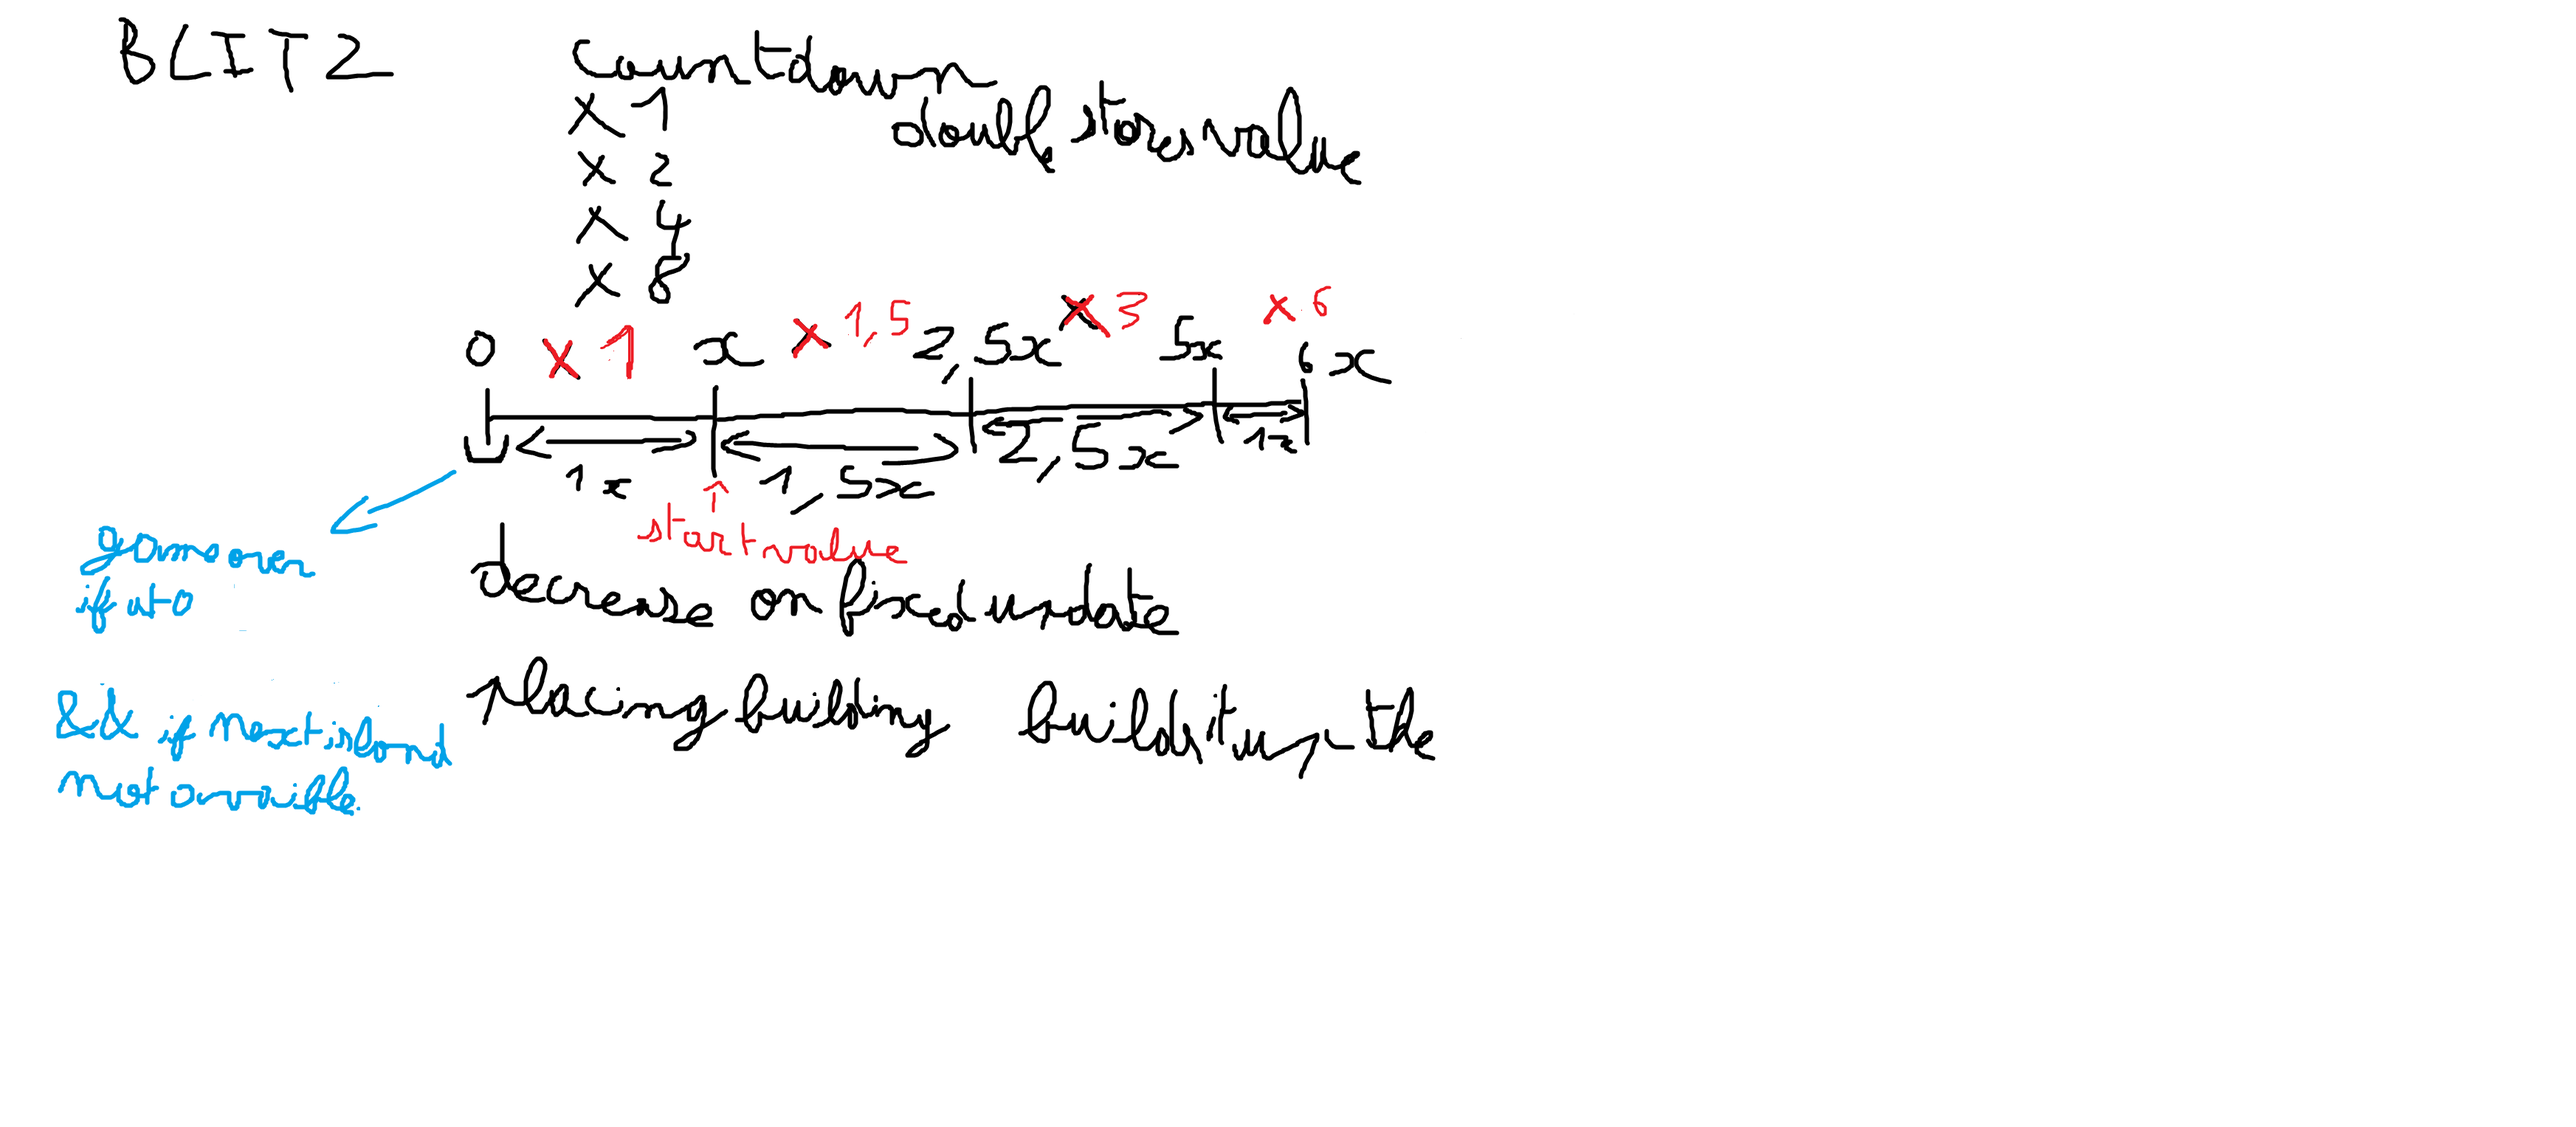
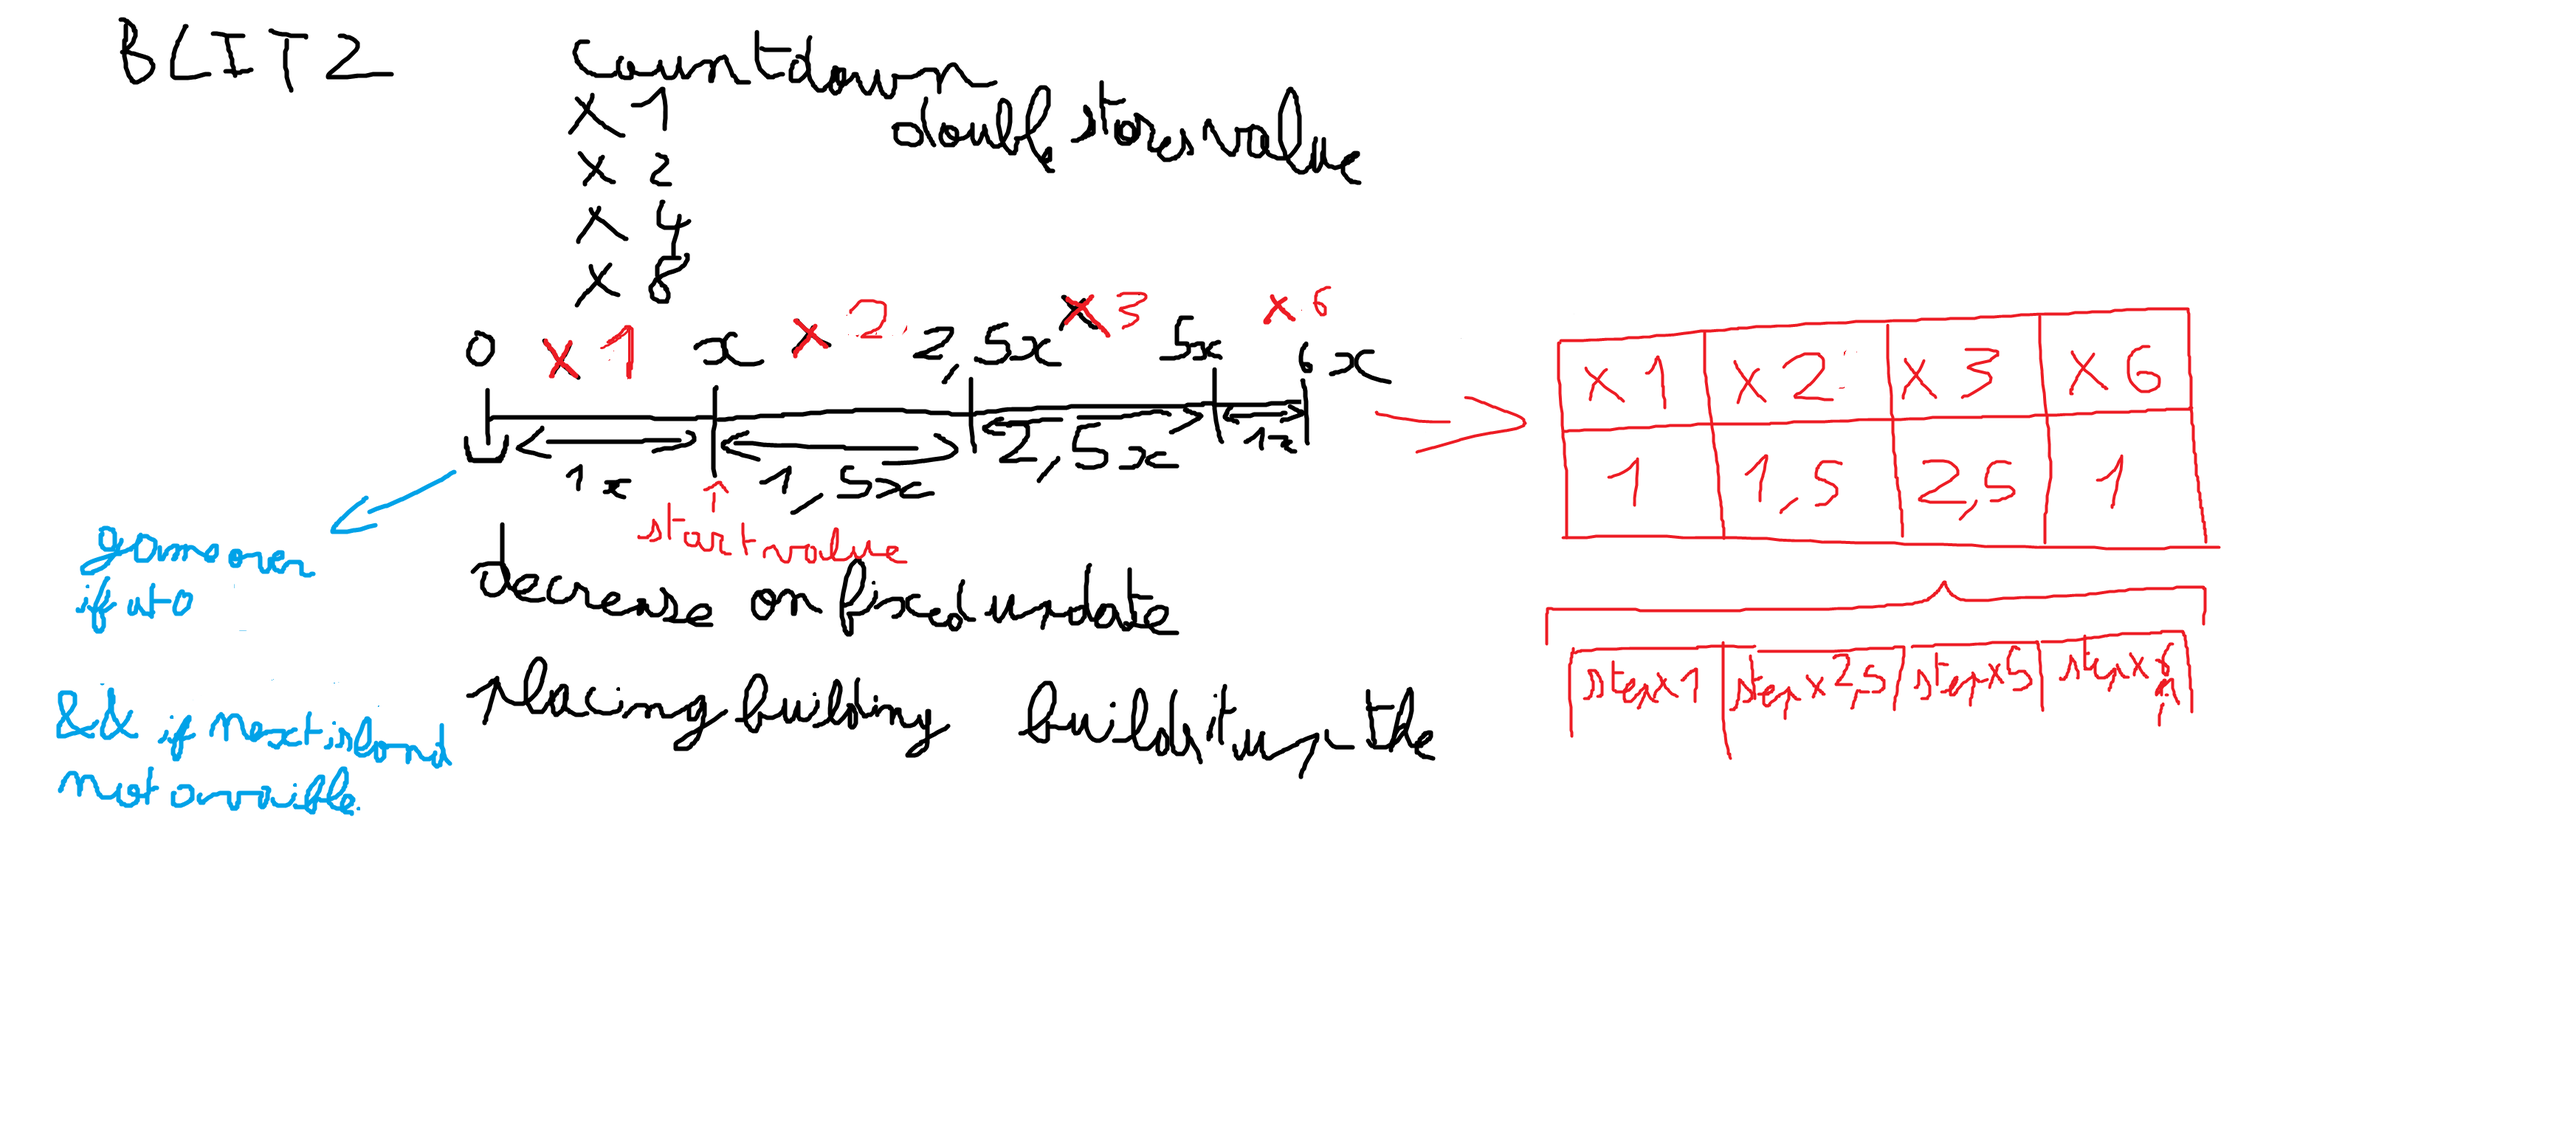
created a tuple to store multiplicator and the upper limit of it, and began the construction of a countdown decorator that would add the multiplicator recon

diff --git a/BlitzModISLANDERS/BlitzModIslanders/CDAndRules.cs b/BlitzModISLANDERS/BlitzModIslanders/CDAndRules.cs
@@ -1,0 +1,27 @@
+using System;
+using System.Collections.Generic;
+using System.Text;
+
+namespace BlitzModIslanders
+{
+    public class CDAndRules
+    {
+        private GameCountDown _cd;
+        private TupleFloatInt[] _tupleFloatInts;
+        private double[] _scoreLimits;
+
+        public CDAndRules ( TupleFloatInt[] tupleFloatInts, double val, double dec, double inc, double min, double step)
+        {
+            this._tupleFloatInts = tupleFloatInts;
+            double tempMax = 0;
+            this._scoreLimits = new double[this._tupleFloatInts.Length];
+            for (int i = 0; i < this._tupleFloatInts.Length; i++)
+            {
+                tempMax += this._tupleFloatInts[i].getFloatVal();
+                this._scoreLimits[i] = step * tempMax;
+            }
+
+            this._cd = new GameCountDown(val,dec,inc,min,step,tempMax);
+        }
+    }
+}

diff --git a/BlitzModISLANDERS/BlitzModIslanders/TupleFloatInt.cs b/BlitzModISLANDERS/BlitzModIslanders/TupleFloatInt.cs
@@ -1,0 +1,35 @@
+using System;
+using System.Collections.Generic;
+using System.Text;
+
+namespace BlitzModIslanders
+{
+    public class TupleFloatInt
+    {
+        private int _value;
+        private float _floatValue;
+        public TupleFloatInt(int value, float floatValue)
+        {
+            _value = Math.Abs(value);
+            _floatValue = Math.Abs(floatValue);
+        }
+
+        //getters
+        public int getIntVal() {  return _value; }
+        public float getFloatVal() { return _floatValue;}
+
+        //setters
+        public void setIntVal(int value) {
+            if (value < 0)
+            {
+                _value = value;
+            }
+        }
+        public void setFloatVal(float value) {
+            if (value > 0)
+            {
+                _floatValue = value;
+            }
+        }
+    }
+}

diff --git a/BlitzModISLANDERS/BlitzModIslanders/GameCountDown.cs b/BlitzModISLANDERS/BlitzModIslanders/GameCountDown.cs
@@ -14,7 +14,7 @@ namespace BlitzModIslanders
         public GameCountDown() { }
 
         // the cd's max val is relative to other variables so it's set at the start
-        public GameCountDown(double val, double dec, double inc, double min, double step)
+        public GameCountDown(double val, double dec, double inc, double min, double step, double toMax)
         {
 
             this.value = val; // base value 0
@@ -22,7 +22,7 @@ namespace BlitzModIslanders
             this.increase = inc;// base value 10
             this.minVal = min;// base value 0
             this.step = step;// base value 60
-            this.maxVal = 6 * step;
+            this.maxVal = toMax * step;
             this.isOnGoing = false;
         }
 

diff --git a/BlitzModISLANDERS/BlitzModIslanders/Blitz.cs b/BlitzModISLANDERS/BlitzModIslanders/Blitz.cs
@@ -21,7 +21,7 @@ namespace BlitzModIslanders
 
         public override void OnInitializeMelon()
         {
-            this.cd = new GameCountDown(0f, 1f, 10f, 0f, 60f);
+            this.cd = new GameCountDown(0f, 1f, 10f, 0f, 60f,6f);
             this.loggingCD.UnFreezeCD();
         }
         public override void OnUpdate()

diff --git a/BlitzModISLANDERS/tupleIntFloat.cs b/BlitzModISLANDERS/tupleIntFloat.cs
@@ -1,0 +1,8 @@
+using System;
+
+public class Class1
+{
+	public Class1()
+	{
+	}
+}
